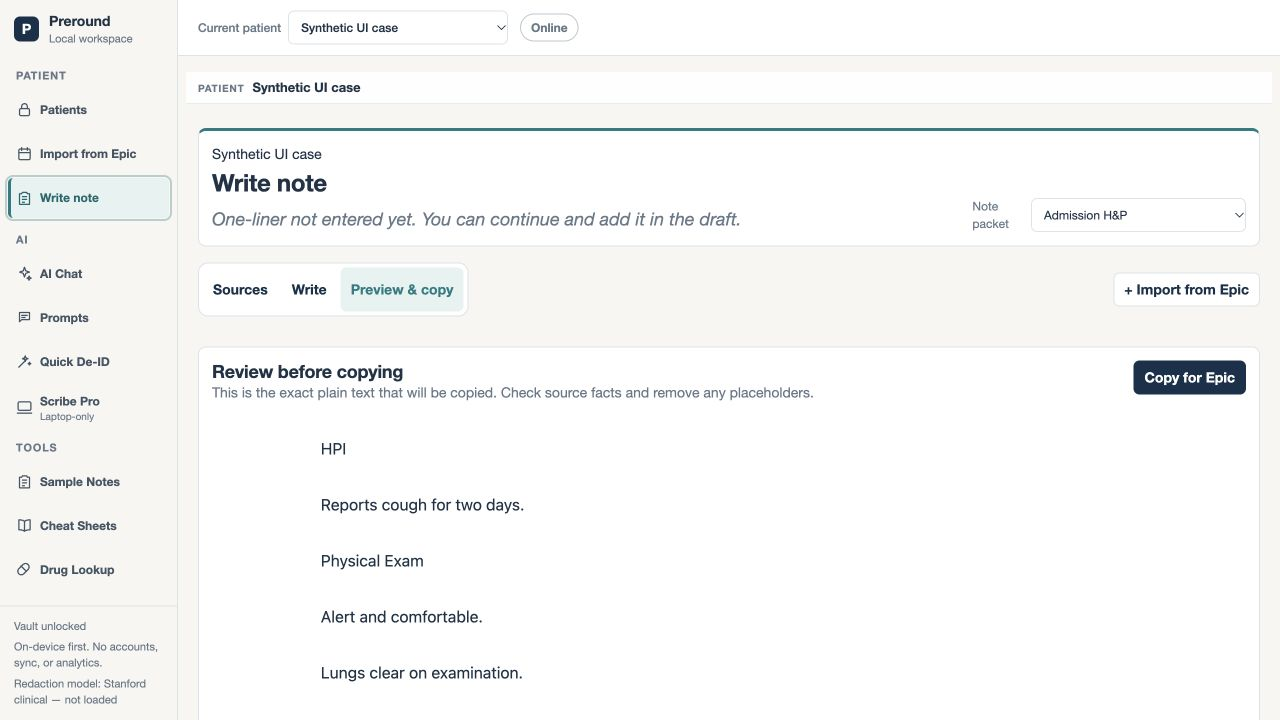
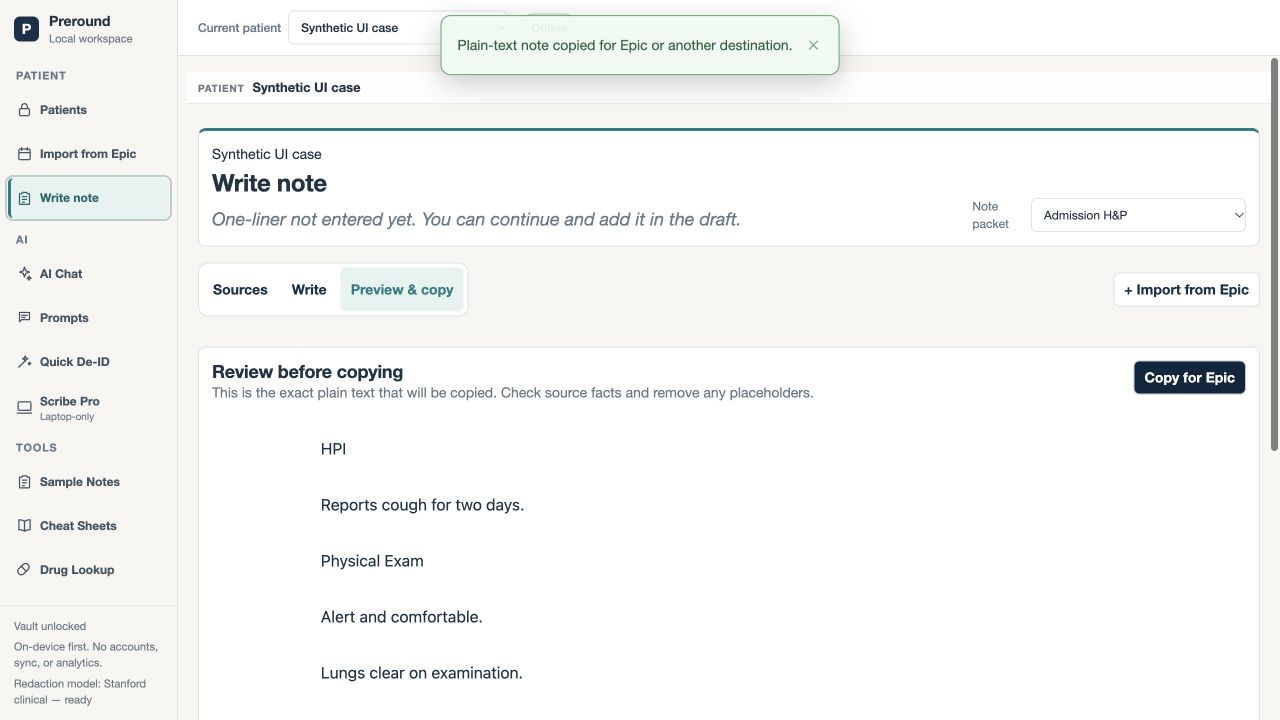
Retain privacy regressions while removing tests for retired checklist routes

diff --git a/tests/test-local-first-ui-browser.js b/tests/test-local-first-ui-browser.js
@@ -310,7 +310,7 @@ try {
   await page.click('[data-view-target="prompts"]');
   await page.waitForSelector("#promptOutputHighlighted");
   assert.equal(await page.locator('#promptTaskSelect option', { hasText: "Discharge summary" }).count(), 0, "deleting a Settings guideline must remove its matching prompt option");
-  await page.selectOption("#promptTaskSelect", "preround_bedside_exam");
+  await page.selectOption("#promptTaskSelect", "daily_progress_note");
   const selectedDayPreviewToken = page.locator('#promptOutputHighlighted button.var-fill[data-token="@selected-day"]');
   assert.equal(await selectedDayPreviewToken.count(), 1, "selected-day must render as one clickable preview target");
   await page.evaluate(() => { document.querySelector("#promptOutputHighlighted").scrollTop = 0; });
@@ -520,138 +520,10 @@ Vitals
   assert.deepEqual(await page.locator("#dailySources .source-capture-editor .source-kind").evaluateAll((nodes) => nodes.slice(-3).map((node) => node.value)), ["other_chart_text", "medication_activity", "vital_signs"], "only standard-format Epic sections should receive structured source types after saving");
   assert.match(await page.locator("#statusLine").innerText(), /3 sources de-identified and added to this hospital day/);
 
-  await page.click('[data-view-target="workups"]');
-  await page.selectOption("#workupEditorSelect", { label: "Acute kidney injury" });
-  assert.equal(await page.locator('[data-workup-kind] .workup-item-scroll').count(), 2);
-  assert.equal(await page.locator('[data-workup-kind="history"] .workup-system-group').count() > 1, true);
-  assert.equal(await page.locator('[data-workup-kind="history"] .workup-item-scroll').evaluate((node) => node.scrollHeight > node.clientHeight), true, "history questions must have their own scroll surface");
-  assert.equal(await page.locator('[data-action="build-checklist"]').first().isVisible(), true, "Build checklist must remain visible while editing a workup");
-  assert.equal(await page.locator('[data-field="item-system"]').first().evaluate((node) => node.tagName), "SELECT");
-  await page.fill("#workupCatalogSearch", "acute kidney");
-  assert.equal(await page.locator('.workup-catalog-row:visible').count(), 1, "catalog search should narrow the displayed rail without rebuilding the editor");
-  assert.match(await page.locator('.workup-catalog-row:visible').first().innerText(), /Acute kidney injury/i);
-  assert.equal(await page.locator('.workup-catalog-row').filter({ hasText: "Abdominal pain" }).evaluate((node) => getComputedStyle(node).display), "none", "non-matching catalog rows must be removed from layout");
-  assert.match(await page.locator('[data-workup-catalog-count]').innerText(), /1 of/);
-  assert.equal(await page.locator("#workupCatalogSearch").evaluate((node) => document.activeElement === node), true, "catalog search should retain focus while filtering");
-  await page.fill("#workupCatalogSearch", "zzzz-not-a-workup");
-  assert.equal(await page.locator('[data-workup-catalog-empty]').isVisible(), true, "catalog search should explain when no workup matches");
-  await page.click('[data-action="clear-workup-search"]');
-  assert.equal(await page.locator("#workupCatalogSearch").inputValue(), "");
-  assert.equal(await page.locator('.workup-catalog-row:visible').count() >= 52, true, "clearing the catalog search should restore the full list");
-  const historyRows = page.locator('[data-workup-kind="history"] [data-workup-item-row]');
-  const thirdHistoryText = await historyRows.nth(2).locator('[data-field="item-text"]').inputValue();
-  await historyRows.nth(2).locator(".workup-drag-handle").dragTo(historyRows.nth(0).locator(".workup-drag-handle"));
-  await page.waitForFunction(() => /Workup item order saved/.test(document.querySelector("#statusLine")?.textContent || ""));
-  assert.equal(await page.locator('[data-workup-kind="history"] [data-workup-item-row]').first().locator('[data-field="item-text"]').inputValue(), thirdHistoryText);
-  const secondHistoryText = await historyRows.nth(1).locator('[data-field="item-text"]').inputValue();
-  await historyRows.nth(1).locator('[data-action="move-workup-item"][data-direction="up"]').click();
-  await page.waitForFunction(() => /Workup item order saved/.test(document.querySelector("#statusLine")?.textContent || ""));
-  assert.equal(await page.locator('[data-workup-kind="history"] [data-workup-item-row]').first().locator('[data-field="item-text"]').inputValue(), secondHistoryText);
-  const workupOptionCount = await page.locator("#workupEditorSelect option").count();
-  assert.equal(workupOptionCount >= 52, true, "the static Core 50 catalog and distinct foundation workups should be available without a separate import");
-  assert.equal(await page.locator('#workupEditorSelect option[value="dyspnea"]').count(), 1);
-  const currentWorkupId = await page.locator("#workupIdInput").inputValue();
-  await page.locator(".workup-import summary").click();
-  await page.fill("#workupJsonImport", JSON.stringify({
-    schema: "prerounding_workup_v1",
-    id: "scalp-infection",
-    title: "Imported revision",
-    aliases: ["replacement test"],
-    items: [
-      { id: "revision_history", kind: "history", system: "general", text: "Revision history", choices: ["No", "Yes"], select: "one" },
-      { id: "revision_history_two", kind: "history", system: "general", text: "Revision history follow-up", choices: ["No", "Yes"], select: "one" },
-      { id: "revision_exam", kind: "exam", system: "general", text: "Revision exam", choices: ["Normal", "Abnormal"], select: "one" },
-      { id: "revision_exam_two", kind: "exam", system: "general", text: "Revision exam follow-up", choices: ["Normal", "Abnormal"], select: "one" }
-    ]
-  }));
-  await page.click('[data-action="parse-workup-json"]');
-  await page.waitForFunction(() => /Imported JSON replaced/.test(document.querySelector("#statusLine")?.textContent || ""));
-  assert.equal(await page.locator("#workupIdInput").inputValue(), currentWorkupId);
-  assert.equal(await page.locator("#workupEditorSelect option").count(), workupOptionCount);
-  await page.selectOption("#workupThoroughness", "focused");
-  await page.click('[data-action="copy-open-evidence-workup-prompt"]');
-  const copiedWorkupPrompt = await page.evaluate(() => navigator.clipboard.readText());
-  assert.match(copiedWorkupPrompt, /selected fast rounds scope/i);
-  assert.match(copiedWorkupPrompt, /Prior primary-team progress note(?: source)?\.?[\s\S]*Overnight oxygen requirement improved/);
-  assert.match(copiedWorkupPrompt, /Vital signs\. Pulse 76; respirations 16; blood pressure 118\/64/);
-  assert.match(copiedWorkupPrompt, /Laboratory results\. Labs[\s\S]*WBC: 4\.2; flag L/);
-  // A successful "Parse & save" auto-collapses the import panel (its job is
-  // done) - reopen it to paste a fresh draft for the OpenAI-formatting flow
-  // below, same as a real user would.
-  await page.locator(".workup-import summary").click();
-  let openAiFormatRequestCount = 0;
-  await context.route("**/v1/responses", async (route) => {
-    openAiFormatRequestCount += 1;
-    await route.fulfill({
-      contentType: "application/json",
-      body: JSON.stringify({
-        output_text: JSON.stringify({
-          schema: "prerounding_workup_v1",
-          id: "api-workup",
-          title: "API revision",
-          aliases: ["automated"],
-          items: [
-            { id: "api_history", kind: "history", system: "general", text: "API history question", choices: ["No", "Yes"], select: "one" },
-            { id: "api_history_two", kind: "history", system: "general", text: "API history follow-up", choices: ["No", "Yes"], select: "one" },
-            { id: "api_history_three", kind: "history", system: "cardiovascular", text: "API cardiovascular history", choices: ["No", "Yes"], select: "one" },
-            { id: "api_history_four", kind: "history", system: "respiratory", text: "API respiratory history", choices: ["No", "Yes"], select: "one" },
-            { id: "api_exam", kind: "exam", system: "general", text: "API exam item", choices: ["Normal", "Abnormal"], select: "one" },
-            { id: "api_exam_two", kind: "exam", system: "cardiovascular", text: "API cardiovascular exam", choices: ["Normal", "Abnormal"], select: "one" },
-            { id: "api_exam_three", kind: "exam", system: "respiratory", text: "API respiratory exam", choices: ["Normal", "Abnormal"], select: "one" },
-            { id: "api_exam_four", kind: "exam", system: "general", text: "API general exam follow-up", choices: ["Normal", "Abnormal"], select: "one" }
-          ]
-        })
-      })
-    });
-  });
-  await page.fill("#workupJsonImport", "History questions and physical exam items from a de-identified draft.");
-  await page.check("#workupApiDeidConfirmed");
-  assert.equal(await page.locator('[data-action="format-workup-json-api"]').isEnabled(), true);
-  await page.click('[data-action="format-workup-json-api"]');
-  await page.waitForTimeout(1_000);
-  assert.equal(openAiFormatRequestCount, 1, await page.locator("#statusLine").innerText());
-  await page.waitForFunction(() => /OpenAI formatted and loaded|OpenAI request failed|Unable|invalid/i.test(document.querySelector("#statusLine")?.textContent || ""));
-  assert.match(await page.locator("#statusLine").innerText(), /OpenAI formatted and loaded/);
-  assert.equal(await page.locator('[data-workup-kind="history"] [data-field="item-text"]').first().inputValue(), "API history question");
-  await page.locator(".workup-catalog-menu summary").click();
-  await page.locator(".workup-checkbox").first().check();
-  await page.locator(".workup-checkbox").nth(1).check();
-  await page.locator(".workup-checkbox").nth(2).check();
-  await page.click('[data-action="build-checklist"]');
-  await page.waitForSelector("#checklistSections .checklist-item");
-  assert.equal(await page.locator("#checklistSections .checklist-item").count() >= 10, true);
-  assert.equal(await page.locator("#checklistSections .checklist-system").count() > 0, true);
-  const checklistScrollTop = await page.locator("#checklistSections").evaluate((node) => {
-    node.scrollTop = node.scrollHeight;
-    return node.scrollTop;
-  });
-  assert.equal(checklistScrollTop > 0, true, "the checklist must be long enough to exercise its scroll owner");
-  await page.locator("#checklistSections .checklist-answer-select").last().selectOption({ index: 1 });
-  await page.waitForFunction(() => /Checklist answer saved/.test(document.querySelector("#statusLine")?.textContent || ""));
-  assert.equal(
-    await page.locator("#checklistSections").evaluate((node) => node.scrollTop),
-    checklistScrollTop,
-    "answering a history or exam item must not reset the checklist scroll position"
-  );
-  await page.click('[data-action="fill-section-negatives"][data-kind="exam"]');
-  await page.waitForFunction(() => [...document.querySelectorAll("#checklistSections .checklist-answer-select")].some((select) => select.value) || document.querySelectorAll("#checklistSections .checklist-answer:checked").length > 0);
-  assert.equal(await page.locator('[data-action="share-phone-bundle"]').count(), 1, "desktop should offer native link sharing");
-  assert.equal(await page.locator('[data-action="download-phone-bundle"]').count(), 1, "desktop should offer a file fallback");
-  const checklistDownloadPromise = page.waitForEvent("download");
-  await page.click('[data-action="download-phone-bundle"]');
-  assert.equal((await checklistDownloadPromise).suggestedFilename(), "prerounding-checklist.bundle.json");
+  // Retired interactive workups/checklists must not return as patient-data routes.
+  assert.equal(await page.locator('[data-view-target="workups"], [data-view-target="checklist"]').count(), 0);
+  assert.equal(await page.locator('[data-action="build-checklist"]').count(), 0);
 
-  await page.setViewportSize({ width: 390, height: 720 });
-  const scrollWorked = await page.evaluate(() => {
-    const node = document.querySelector("#checklistSections");
-    node.scrollTop = node.scrollHeight;
-    return node.scrollTop > 0 && node.scrollHeight > node.clientHeight;
-  });
-  assert.equal(scrollWorked, true);
-
-  // The phone bundle round-trip (mobile entry, answering, return import)
-  // lives in test-transfer-refresh-browser.js as its own journey.
-  await page.setViewportSize({ width: 1280, height: 820 });
   await page.click('[data-view-target="prompts"]');
   await page.waitForSelector("#promptOutputHighlighted");
   await page.selectOption("#promptTaskSelect", "initial_admission_rounds");
@@ -869,10 +741,8 @@ Vitals
   // The roster is empty; the Daily view should show an empty state (not patient data).
   const dailyText = await page.locator("#dailyContent").innerText();
   assert.ok(/no patient|add a patient|unlock the vault/i.test(dailyText), `Hospital Stay must clear when the roster is empty, got: ${dailyText.slice(0, 100)}`);
-  await page.click('[data-view-target="workups"]');
-  assert.match(await page.locator("#workupsContent").innerText(), /no patient|add a patient|unlock the vault/i, "Workups must clear when the roster is empty");
-  await page.click('[data-view-target="checklist"]');
-  assert.match(await page.locator("#checklistContent").innerText(), /no patient|add a patient|unlock the vault/i, "Checklist must clear when the roster is empty");
+  await page.click('[data-view-target="review"]');
+  assert.match(await page.locator("#reviewContent").innerText(), /no patient|add a patient|unlock the vault|select a patient/i, "Write note must clear when the roster is empty");
 
   await page.click('[data-view-target="vault"]');
   await page.click('[data-action="lock-vault"]');

diff --git a/tests/test-review-data-browser.js b/tests/test-review-data-browser.js
@@ -326,11 +326,12 @@ Sodium: 138`;
   // Updating source data marks an edited linked block stale without overwriting it.
   await wbcBlock.locator("[data-objective-group-text]").fill("Student wording: WBC has improved substantially.");
   await page.click('[data-view-target="daily"]');
-  const currentLabSource = page.locator("#dailySources .source-capture-editor").first();
+  const currentLabSource = page.locator("#dailySources .source-capture-editor").filter({ hasText: "CBC" }).first();
   if ((await currentLabSource.locator('[data-action="toggle-section-editor"]').getAttribute("aria-expanded")) !== "true") {
     await currentLabSource.locator('[data-action="toggle-section-editor"]').click();
   }
   const currentLabText = await currentLabSource.locator(".section-text").inputValue();
+  assert.match(currentLabText, /15\.2/, "edit the actual earlier CBC source");
   await currentLabSource.locator(".section-text").fill(currentLabText.replace("15.2", "14.0"));
   await page.click('[data-action="save-day"]');
   await page.waitForFunction(() => /Source edits saved/.test(document.querySelector("#statusLine")?.textContent || ""));

diff --git a/docs/qa/epic-workflow/verification.md b/docs/qa/epic-workflow/verification.md
@@ -22,8 +22,8 @@ Synthetic data only. Local browser: http://127.0.0.1:8873/.
 - HPI sentence moved to exam; destination content retained; Undo restores both; whole-section move and Undo pass.
 - Original-source selection appended to Other note content; unchanged original remains visible.
 - Save & write opens writing workspace after model verification and encrypted save.
-- HPI pull works. Preview and clipboard match exactly.
-- Three lab rows parsed; edited creatinine 1.1 → 1.2 mg/dL saved and displayed as 1.2.
+- HPI and physical-exam pulls work. Preview and clipboard match exactly.
+- Three lab rows parsed; edited creatinine 1.1 → 1.2 mg/dL saved and displayed as 1.2. Later changing the source to 1.3 preserved a clinician-authored summary, flagged the changed source, and applied 1.3 only on explicit refresh.
 - Five vitals displayed; explicitly supplied 37 C becomes 37°C without a missing-unit prompt; SpO2 label is normalized.
 - Labeled CT report, date, findings, and impression appear in diagnostic results and the copied final note. Previously saved truncated selections refresh to the full report; edited interpretations remain preserved and flagged for review.
 - Two numbered A&P problems remain separate, including a subordinate DVT-prophylaxis bullet before the second problem. Tested by actual Stanford save and writing workspace inspection.
